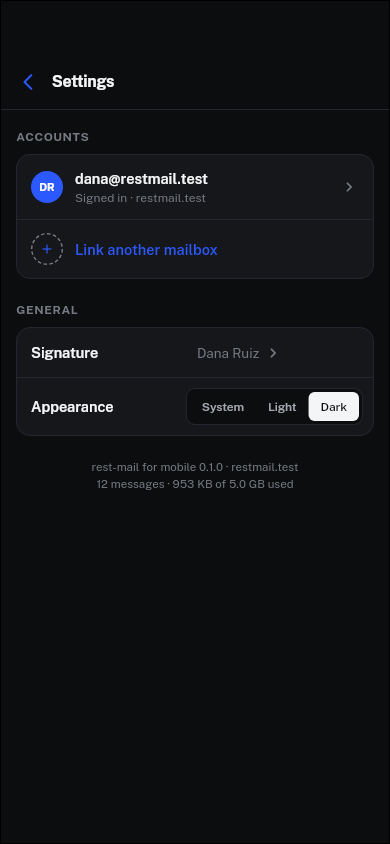
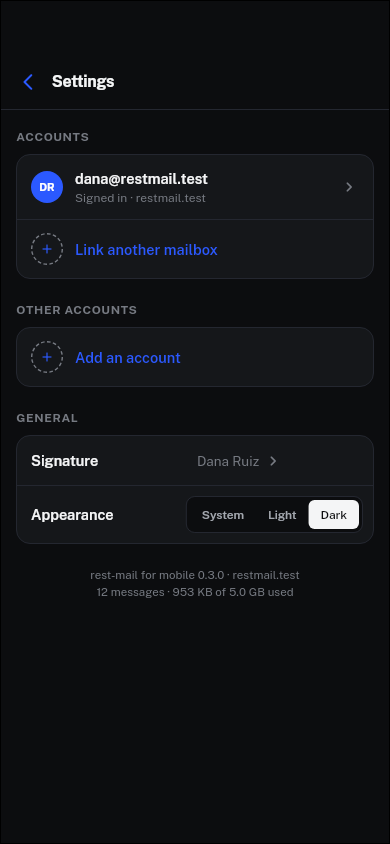
feat: Settings lists the other accounts, switches to them and adds one
Settings → Accounts keeps this account and its linked mailboxes, and a new
Other accounts group lists the rest of the accounts on the phone: tapping
one switches to it, and Add an account signs in to another. Sign out ends
the account on screen only and says the others stay signed in.

The screen tour adds a second account and draws the drawer and Settings
with both; the README's Settings picture shows the new group.

Refs #40

diff --git a/lib/ui/settings_screen.dart b/lib/ui/settings_screen.dart
@@ -8,6 +8,7 @@ import '../state/mailbox_state.dart';
 import '../theme/tokens.dart';
 import '../util/format.dart';
 import '../version.dart';
+import 'add_account_screen.dart';
 import 'widgets/avatar.dart';
 import 'widgets/common.dart';
 import 'widgets/painters.dart';
@@ -58,6 +59,7 @@ class _SettingsScreenState extends State<SettingsScreen> {
     final host = m.backend.host;
     final quota = _quota;
     final signature = settings.signature.trim();
+    final others = app.accounts.where((a) => a != app.current);
     return ListenableBuilder(
       listenable: m,
       builder: (context, _) => Scaffold(
@@ -75,18 +77,43 @@ class _SettingsScreenState extends State<SettingsScreen> {
                       children: [
                         for (final account in m.accounts)
                           _AccountRow(
-                            account: account,
+                            label: account.label,
+                            address: account.address,
                             subtitle: account.isPrimary
                                 ? 'Signed in · $host'
                                 : 'Linked mailbox · $host',
+                            primary: account.isPrimary,
                             onTap: () => _push(
                               context,
                               AccountScreen(mailbox: m, account: account),
                             ),
                           ),
-                        _LinkRow(
+                        _AddRow(
+                          label: 'Link another mailbox',
                           onTap: () =>
                               _push(context, LinkAccountScreen(mailbox: m)),
+                        ),
+                      ],
+                    ),
+                    const SizedBox(height: 22),
+                    // Accounts of their own, each with its own session,
+                    // perhaps on another server. Tapping one puts it on
+                    // screen.
+                    const SectionLabel('Other accounts'),
+                    const SizedBox(height: 9),
+                    RmGroup(
+                      children: [
+                        for (final other in others)
+                          _AccountRow(
+                            label: other.label,
+                            address: other.address,
+                            subtitle: 'Signed in · ${other.host}',
+                            icon: Icons.swap_horiz_rounded,
+                            onTap: () => unawaited(app.switchTo(other)),
+                          ),
+                        _AddRow(
+                          label: 'Add an account',
+                          onTap: () => _push(context, const AddAccountScreen()),
                         ),
                       ],
                     ),
@@ -157,14 +184,22 @@ class _SettingsScreenState extends State<SettingsScreen> {
 
 class _AccountRow extends StatelessWidget {
   const _AccountRow({
-    required this.account,
+    required this.label,
+    required this.address,
     required this.subtitle,
     required this.onTap,
+    this.primary = false,
+    this.icon = Icons.chevron_right_rounded,
   });
 
-  final Account account;
+  final String label;
+  final String address;
   final String subtitle;
   final VoidCallback onTap;
+  final bool primary;
+
+  /// What tapping does: open the account, or switch to it.
+  final IconData icon;
 
   @override
   Widget build(BuildContext context) {
@@ -176,10 +211,10 @@ class _AccountRow extends StatelessWidget {
         child: Row(
           children: [
             RmAvatar(
-              name: account.label,
-              seed: account.address,
+              name: label,
+              seed: address,
               size: 32,
-              color: account.isPrimary ? c.accent : null,
+              color: primary ? c.accent : null,
             ),
             const SizedBox(width: 12),
             Expanded(
@@ -187,7 +222,7 @@ class _AccountRow extends StatelessWidget {
                 crossAxisAlignment: CrossAxisAlignment.start,
                 children: [
                   Text(
-                    account.address,
+                    address,
                     maxLines: 1,
                     overflow: TextOverflow.ellipsis,
                     style: rmText(14.5, color: c.ink, weight: FontWeight.w600),
@@ -196,7 +231,7 @@ class _AccountRow extends StatelessWidget {
                 ],
               ),
             ),
-            Icon(Icons.chevron_right_rounded, size: 20, color: c.ink3),
+            Icon(icon, size: 20, color: c.ink3),
           ],
         ),
       ),
@@ -204,9 +239,10 @@ class _AccountRow extends StatelessWidget {
   }
 }
 
-class _LinkRow extends StatelessWidget {
-  const _LinkRow({required this.onTap});
+class _AddRow extends StatelessWidget {
+  const _AddRow({required this.label, required this.onTap});
 
+  final String label;
   final VoidCallback onTap;
 
   @override
@@ -226,7 +262,7 @@ class _LinkRow extends StatelessWidget {
             const SizedBox(width: 12),
             Flexible(
               child: Text(
-                'Link another mailbox',
+                label,
                 style: rmText(14.5, color: c.accent, weight: FontWeight.w600),
               ),
             ),
@@ -275,14 +311,19 @@ class _AccountScreenState extends State<AccountScreen> {
     final host = widget.mailbox.backend.host;
     final app = AppScope.read(context);
     if (account.isPrimary) {
+      // This account only: any others on the phone stay signed in.
+      final signedIn = app.current;
       final sure = await confirmAction(
         context,
         title: 'Sign out?',
-        message:
-            'The session is removed from this device. Your mail stays on $host.',
+        message: [
+          'The session for ${account.address} is removed from this device. '
+              'Your mail stays on $host.',
+          if (app.accounts.length > 1) 'Your other accounts stay signed in.',
+        ].join(' '),
         action: 'Sign out',
       );
-      if (sure) await app.signOut();
+      if (sure && signedIn != null) await app.signOut(signedIn);
       return;
     }
     final sure = await confirmAction(

diff --git a/test/accounts_flow_test.dart b/test/accounts_flow_test.dart
@@ -1,0 +1,138 @@
+import 'package:flutter/material.dart';
+import 'package:flutter_test/flutter_test.dart';
+import 'package:restmail/app.dart';
+import 'package:restmail/state/app_state.dart';
+import 'package:restmail/state/storage.dart';
+import 'package:restmail_fake/restmail_fake.dart';
+
+/// From the Add account screen: the address, the server (found from it, or
+/// typed in when [server] is given), the password, Continue.
+Future<void> _signIn(
+  WidgetTester tester,
+  String email, {
+  String? server,
+}) async {
+  await tester.enterText(find.byType(TextField).at(0), email);
+  await tester.pump(const Duration(milliseconds: 600)); // past the debounce
+  await tester.pumpAndSettle();
+  if (server != null) {
+    await tester.tap(find.text('Configure manually'));
+    await tester.pumpAndSettle();
+    await tester.enterText(find.byType(TextField), server);
+    await tester.testTextInput.receiveAction(TextInputAction.go);
+    await tester.pumpAndSettle();
+    await tester.tap(find.text('Use this server'));
+    await tester.pumpAndSettle();
+  }
+  await tester.enterText(find.byType(TextField).at(1), FakeAccounts.password);
+  await tester.pump();
+  await tester.tap(find.text('Continue'));
+  await tester.pumpAndSettle();
+}
+
+Future<void> _openSettings(WidgetTester tester) async {
+  await tester.tap(find.byTooltip('Folders and accounts'));
+  await tester.pumpAndSettle();
+  await tester.tap(find.text('Settings'));
+  await tester.pumpAndSettle();
+}
+
+/// Replies to [subject] in the folder on screen and comes back to it.
+Future<void> _reply(WidgetTester tester, String subject) async {
+  await tester.tap(find.text(subject));
+  await tester.pumpAndSettle();
+  await tester.tap(find.text('Reply'));
+  await tester.pumpAndSettle();
+  await tester.tap(find.text('Send'));
+  await tester.pumpAndSettle();
+  expect(find.text('Message sent'), findsOneWidget);
+  await tester.tap(find.byTooltip('Back'));
+  await tester.pumpAndSettle();
+}
+
+void main() {
+  setUpAll(() => EditableText.debugDeterministicCursor = true);
+
+  testWidgets('two accounts at once: switch from the drawer and from '
+      'Settings, send from each, sign out of one', (tester) async {
+    tester.view.physicalSize = const Size(1170, 2532);
+    tester.view.devicePixelRatio = 3;
+    addTearDown(tester.view.reset);
+    final fake = FakeRestmail();
+    final state = AppState(
+      store: MemoryKeyValueStore(),
+      httpClientFactory: () => fake.client,
+    );
+    await state.start();
+    await tester.pumpWidget(RestmailApp(state: state));
+
+    await tester.tap(find.text('Add an account'));
+    await tester.pumpAndSettle();
+    await _signIn(tester, FakeAccounts.email);
+    expect(find.text('Live · ${FakeAccounts.email}'), findsOneWidget);
+
+    // A second account, from Settings.
+    await _openSettings(tester);
+    expect(find.text('OTHER ACCOUNTS'), findsOneWidget);
+    await tester.tap(find.text('Add an account'));
+    await tester.pumpAndSettle();
+    // Its domain has no server of its own: it is served from the first's.
+    await _signIn(tester, FakeAccounts.otherEmail, server: FakeAccounts.host);
+    expect(find.text('Live · ${FakeAccounts.otherEmail}'), findsOneWidget);
+    expect(state.accounts, hasLength(2));
+
+    await _reply(tester, 'Rota for next week');
+    expect(
+      fake.messagesIn(FakeAccounts.otherEmail, 'Sent').single.subject,
+      'Re: Rota for next week',
+    );
+
+    // Back to the first, from the drawer.
+    await tester.tap(find.byTooltip('Folders and accounts'));
+    await tester.pumpAndSettle();
+    await tester.tap(find.byTooltip('Switch to ${FakeAccounts.email}'));
+    await tester.pumpAndSettle();
+    expect(find.text('Live · ${FakeAccounts.email}'), findsOneWidget);
+    // The other account's snackbar stayed with it.
+    expect(find.text('Message sent'), findsNothing);
+
+    await _reply(tester, 'Re: sync latency on flaky networks');
+    expect(
+      fake.messagesIn(FakeAccounts.email, 'Sent').last.subject,
+      'Re: sync latency on flaky networks',
+    );
+
+    // And to the second again, from Settings.
+    await _openSettings(tester);
+    await tester.tap(find.text(FakeAccounts.otherEmail));
+    await tester.pumpAndSettle();
+    expect(find.text('Live · ${FakeAccounts.otherEmail}'), findsOneWidget);
+
+    // Signing out ends only the account on screen.
+    await _openSettings(tester);
+    await tester.tap(find.text(FakeAccounts.otherEmail));
+    await tester.pumpAndSettle();
+    await tester.tap(find.text('Sign out'));
+    await tester.pumpAndSettle();
+    expect(
+      find.textContaining('Your other accounts stay signed in.'),
+      findsOneWidget,
+    );
+    await tester.tap(find.text('Sign out').last);
+    await tester.pumpAndSettle();
+
+    expect(state.phase, AppPhase.signedIn);
+    expect([for (final a in state.accounts) a.address], [FakeAccounts.email]);
+    expect(find.text('Live · ${FakeAccounts.email}'), findsOneWidget);
+    expect(
+      find.text('Signed out of ${FakeAccounts.otherEmail}'),
+      findsOneWidget,
+    );
+
+    // Close the event streams so no timer outlives the test.
+    await tester.pumpWidget(const SizedBox());
+    state.dispose();
+    fake.close();
+    await tester.pump(const Duration(seconds: 5));
+  });
+}

diff --git a/tool/screens/screens_test.dart b/tool/screens/screens_test.dart
@@ -125,9 +125,38 @@ Future<void> _tour(WidgetTester tester, {required bool dark}) async {
   await tester.enterText(find.byType(TextField), 'latency');
   await tester.pump(const Duration(milliseconds: 500));
   await _shot(tester, '09-search$suffix');
+  await tester.tap(find.text('Done'));
+  await tester.pumpAndSettle();
+
+  // A second account, added from Settings. Its domain has no server of its
+  // own, so the server is chosen by hand.
+  tester.state<ScaffoldState>(find.byType(Scaffold)).openDrawer();
+  await tester.pumpAndSettle();
+  await tester.tap(find.text('Settings'));
+  await tester.pumpAndSettle();
+  await tester.tap(find.text('Add an account'));
+  await tester.pumpAndSettle();
+  await tester.enterText(find.byType(TextField).at(0), FakeAccounts.otherEmail);
+  await tester.pump(const Duration(milliseconds: 600));
+  await tester.pumpAndSettle();
+  await tester.tap(find.text('Configure manually'));
+  await tester.pumpAndSettle();
+  await tester.enterText(find.byType(TextField), FakeAccounts.host);
+  await tester.testTextInput.receiveAction(TextInputAction.go);
+  await tester.pumpAndSettle();
+  await tester.tap(find.text('Use this server'));
+  await tester.pumpAndSettle();
+  await tester.enterText(find.byType(TextField).at(1), FakeAccounts.password);
+  await tester.pump();
+  await tester.tap(find.text('Continue'));
+  await tester.pumpAndSettle();
+  tester.state<ScaffoldState>(find.byType(Scaffold)).openDrawer();
+  await _shot(tester, '10-accounts$suffix');
+  await tester.tap(find.text('Settings'));
+  await _shot(tester, '11-accounts-settings$suffix');
 
   await tester.pumpWidget(const SizedBox());
-  state.mailbox?.dispose();
+  state.dispose();
   fake.close();
   await tester.pump(const Duration(seconds: 5));
 }

diff --git a/README.md b/README.md
@@ -13,6 +13,8 @@ webmail uses, not IMAP.
 - Folders, message lists, reading, reply, reply all, forward, drafts, search
   and attachments. You can also link other mailboxes on the same server and
   switch between them.
+- Several accounts at once, on one server or on several, each with its own
+  session. Signing out of one leaves the others signed in.
 - Live updates over the server's event stream while the app is open.
 - HTML mail is cut down to the webmail's allowlist and drawn as native
   widgets. There is no web view and no JavaScript. Remote images stay blocked
@@ -50,7 +52,7 @@ About half a second after you stop typing the domain, the app looks for a
 rest-mail server at the domain and at `mail.<domain>`, and the card under the
 address shows the result. If nothing is found, **Configure manually** opens the
 Server screen. The password is sent once, to sign in. After that the app keeps
-only the session, in the system keychain.
+only the session, in the system keychain, one entry per account.
 
 If the account has two-factor authentication, a **Two-factor code** field
 appears. **Use a recovery code instead** switches it to take a recovery code.
@@ -84,9 +86,9 @@ otherwise. New mail arrives without a refresh.
 
 The menu button opens the drawer. Each folder shows its unread count, and
 Drafts shows how many drafts there are. Folders the server has beyond the
-standard ones, like **Receipts** here, are listed too. If you have linked other
-mailboxes, their avatars sit next to the account at the top; tap one to switch
-to it. **Settings** is at the bottom.
+standard ones, like **Receipts** here, are listed too. Linked mailboxes, then
+any other accounts signed in on the phone, sit as avatars next to the account
+at the top; tap one to switch to it. **Settings** is at the bottom.
 
 </td>
 </tr>
@@ -164,12 +166,16 @@ searches. Recent searches are kept only until the app closes.
 
 ### Settings
 
-- **Accounts** lists the signed-in account and any linked mailboxes. Tap one
+- **Accounts** lists the account on screen and any linked mailboxes. Tap one
   to see its display name, server and storage, and to **Sign out**, or
-  **Remove from this session** for a linked mailbox. Signing out removes the
-  session from the phone; the mail stays on the server.
+  **Remove from this session** for a linked mailbox. Signing out ends that
+  account only: its session is removed from the phone, its mail stays on the
+  server, and any other accounts stay signed in.
 - **Link another mailbox** adds another mailbox on the same server to this
   session.
+- **Other accounts** lists the other accounts signed in on the phone; tap one
+  to switch to it. **Add an account** signs in to another, on this server or
+  any other.
 - **Signature** edits the signature, with a preview and the **Append on
   replies** switch.
 - **Appearance** is **System**, **Light** or **Dark**.
